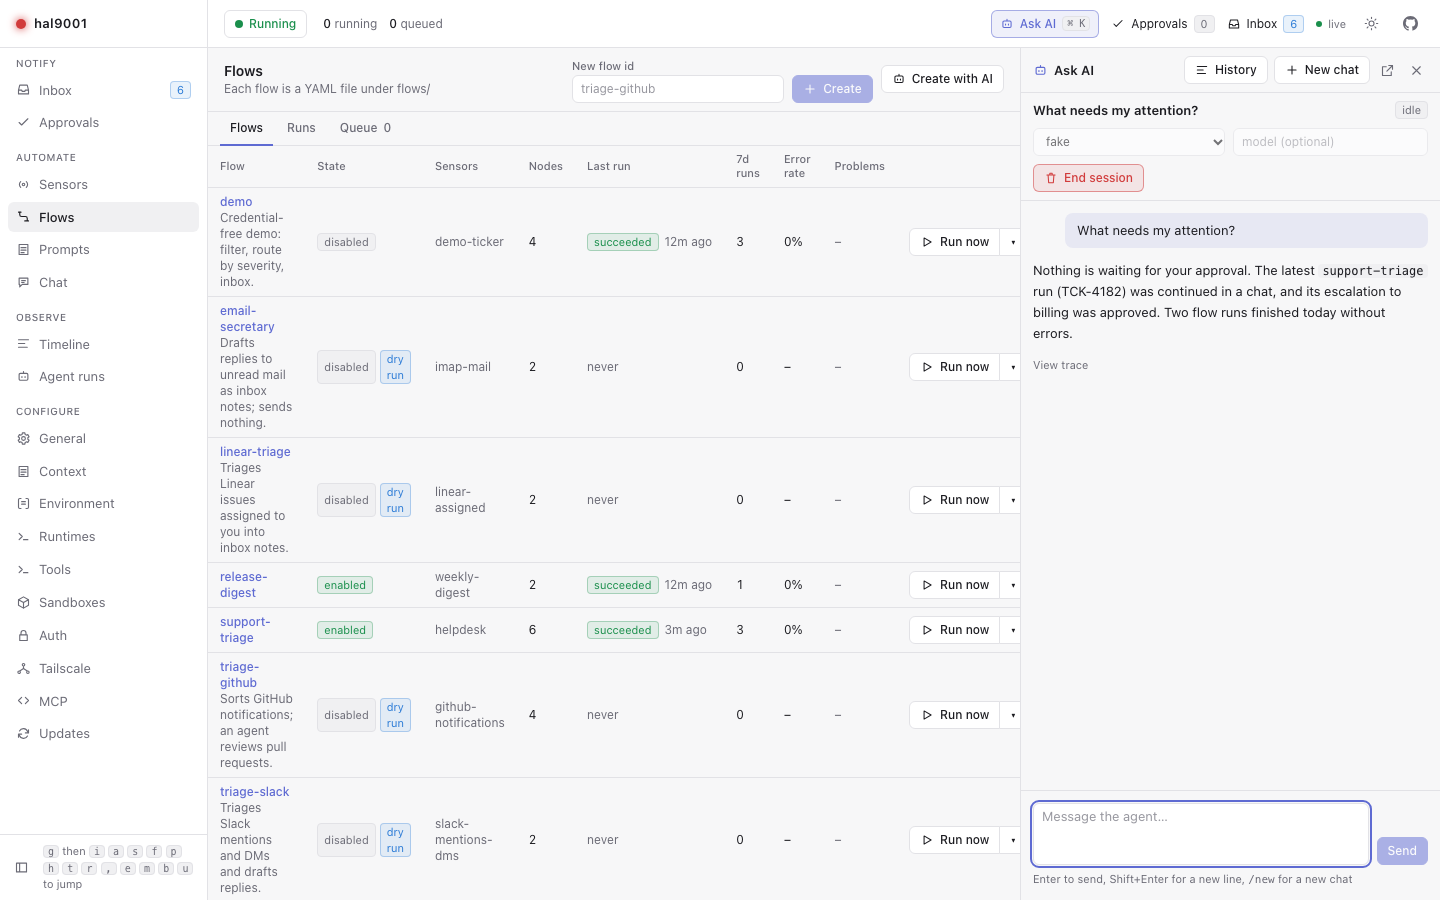
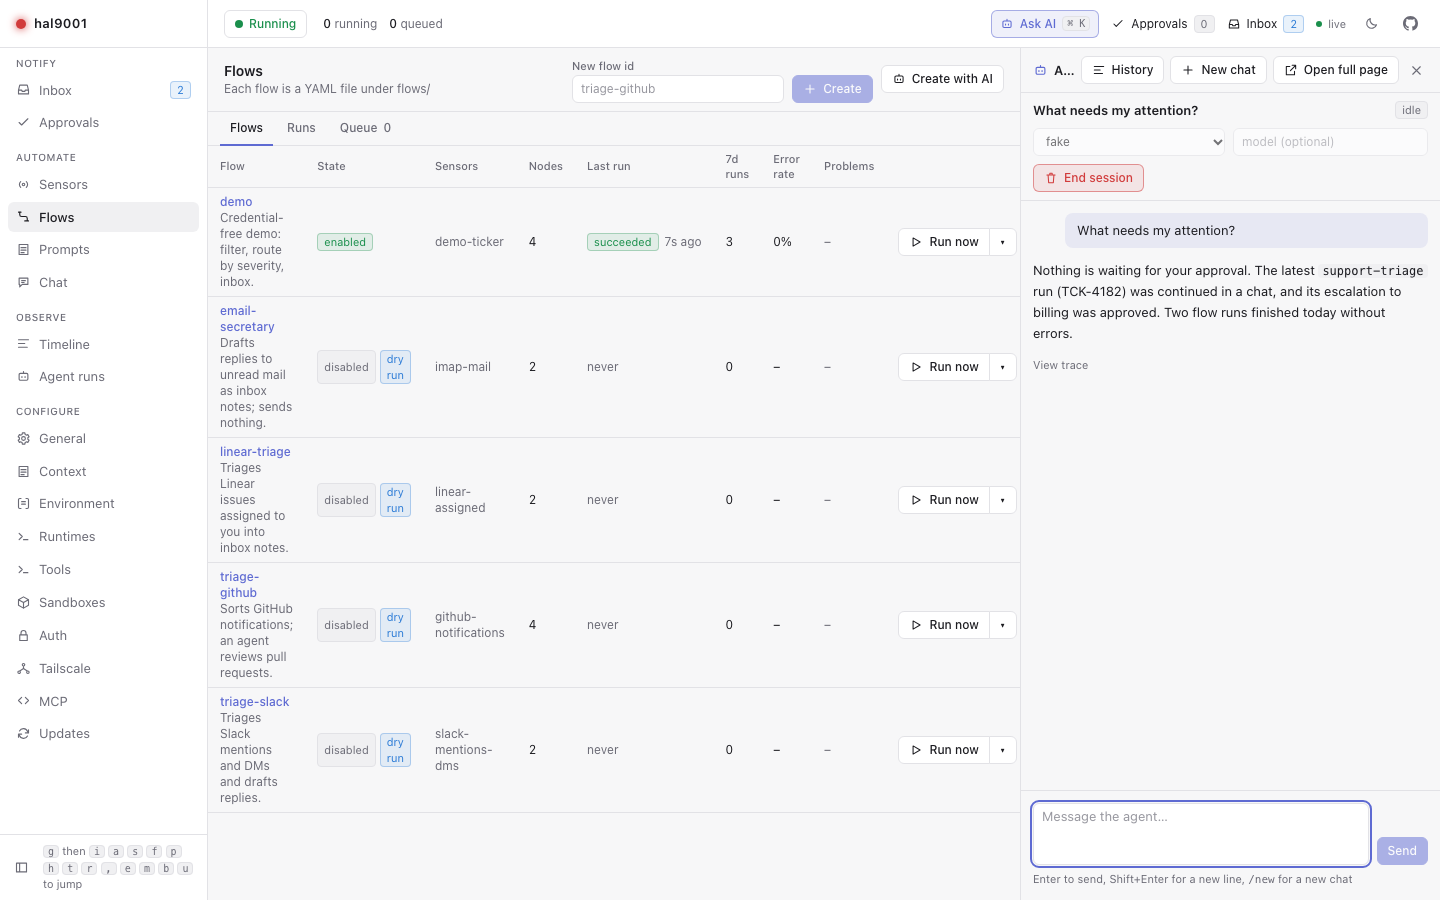
docs: retake the drawer screenshot with the labeled Open full page button

diff --git a/docs/assist.md b/docs/assist.md
@@ -309,7 +309,7 @@ when the runtime loaded its own session. The sandbox rows show that the run's sa
 **One chat at a time.** The drawer is not shown on `/chat`. The chat shown on the page receives the assistant's
 `navigate_ui` and `start_draft` requests, as the drawer's chat does elsewhere.
 
-The drawer has an `Open full page` button (the icon left of the close button) that opens the same chat on `/chat/<id>`.
+The drawer has an `Open full page` button in its header that opens the same chat on `/chat/<id>`.
 
 ![The Ask AI drawer with the Open full page button](images/chat/drawer-open-full-page-light.png) ([dark](images/chat/drawer-open-full-page-dark.png))
 
